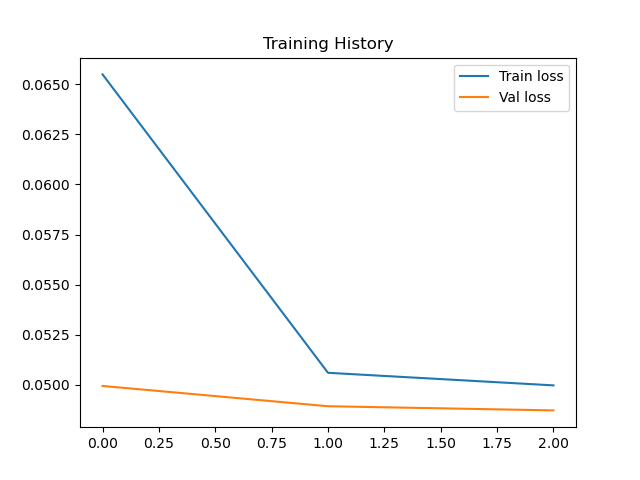
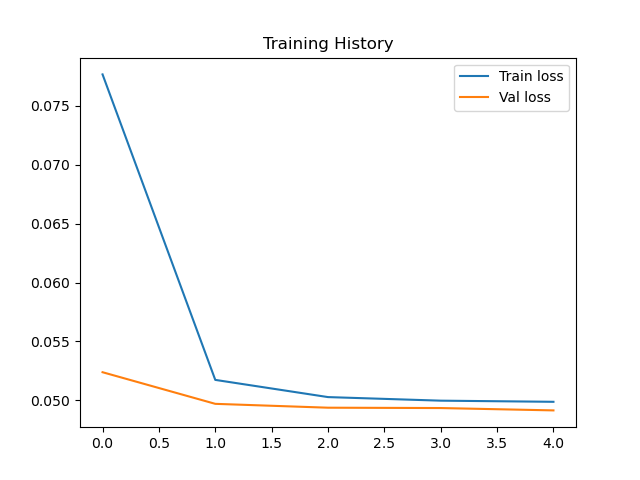
risk

diff --git a/GAT3D/GATLayerTemporal.py b/GAT3D/GATLayerTemporal.py
@@ -29,7 +29,6 @@ class GATLayerTemporal(nn.Module):
         else:
             N, V, H, W = h.size()
 
-        
         self.a = nn.Parameter(t.empty(size=(2 * H * W, 1))).to(
             self.W.device
         )  # added by Giulio
@@ -53,9 +52,7 @@ class GATLayerTemporal(nn.Module):
         adj_mat_min = t.min(adj_mat)
         adj_mat_max = t.max(adj_mat)
         adj_mat = (adj_mat - adj_mat_min) / (adj_mat_max - adj_mat_min)
-        D = Variable(
-            t.diag(t.sum(adj_mat, axis=1)), requires_grad=False
-        )
+        D = Variable(t.diag(t.sum(adj_mat, axis=1)), requires_grad=False)
         D_12 = t.sqrt(t.inverse(D))
         adj_mat_norm_d12 = t.matmul(t.matmul(D_12, adj_mat), D_12)
 
@@ -70,7 +67,7 @@ class GATLayerTemporal(nn.Module):
         h_prime = t.stack((Wh_))
         h_prime = h_prime.permute(1, 2, 3, 0).contiguous().view(N, H * W, T, V)
         h_prime = t.matmul(h_prime, adj_mat_norm_d12).view(N, H, W, T, V)
-        #return F.elu(h_prime)
+        # return F.elu(h_prime)
         return t.sigmoid(F.elu(h_prime))
 
     def batch_prepare_attentional_mechanism_input(self, Wh):

diff --git a/experiments/experiment_local/config.py b/experiments/experiment_local/config.py
@@ -4,7 +4,7 @@ from convolutional_gat.model import TemporalModel
 from convolutional_gat.data_loader import Task
 
 MODEL = TemporalModel()
-EPOCHS = 15
+EPOCHS = 5
 TRAIN_BATCH_SIZE = 32
 TEST_BATCH_SIZE = 32
 LEARNING_RATE = 0.001
@@ -14,5 +14,5 @@ GAMMA = 1.0
 PLOT = False
 CRITERION = nn.MSELoss()
 OPTIMIZER = torch.optim.Adam
-# DOWNSAMPLE_SIZE = (155, 155)
-DOWNSAMPLE_SIZE = (16, 16)
+DOWNSAMPLE_SIZE = (35, 35)
+# DOWNSAMPLE_SIZE = (1, 16)
